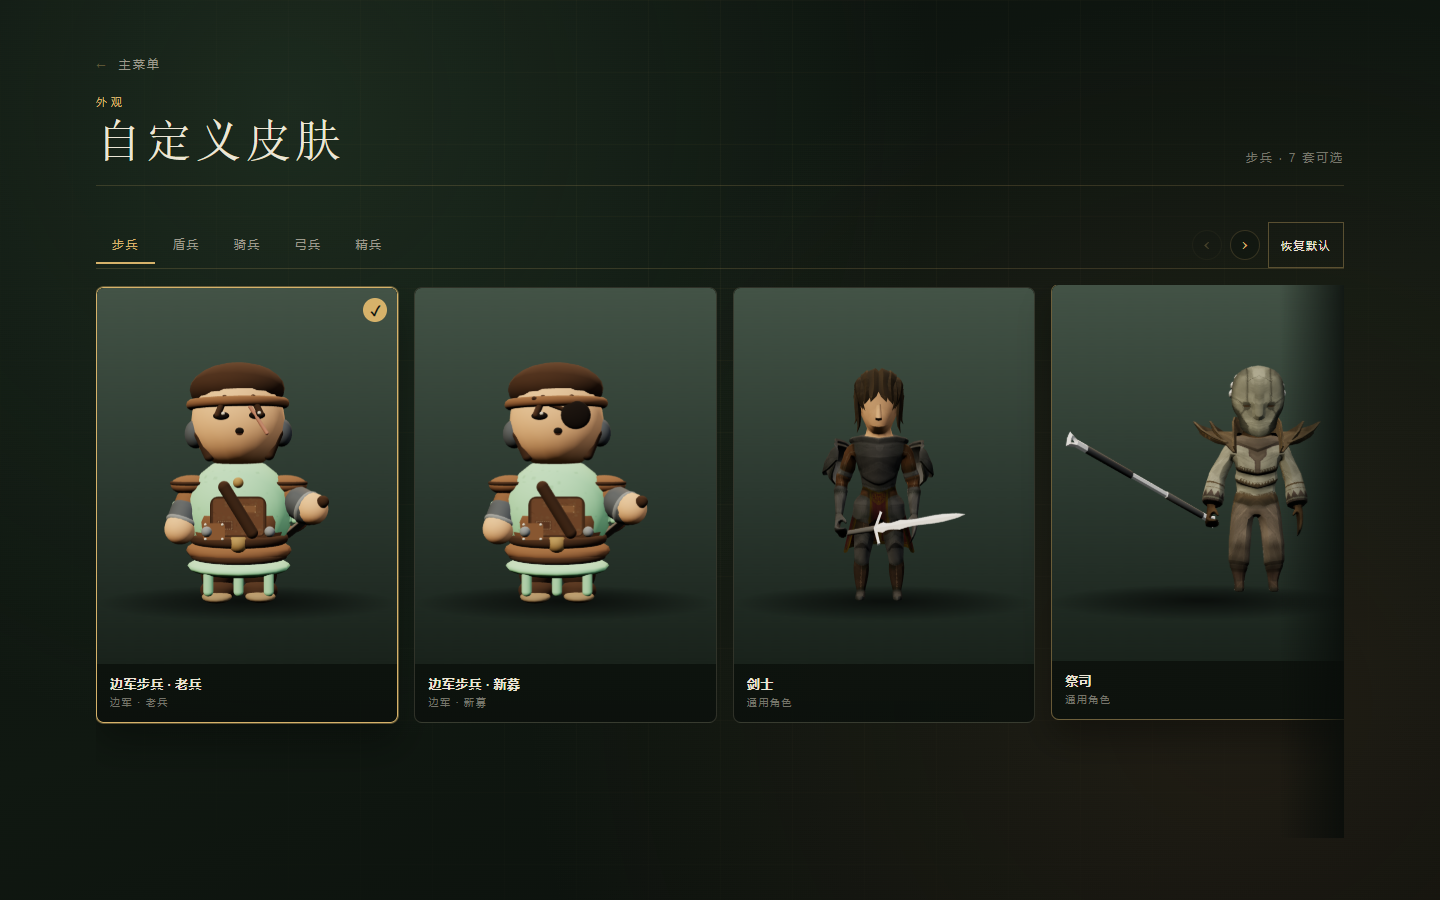
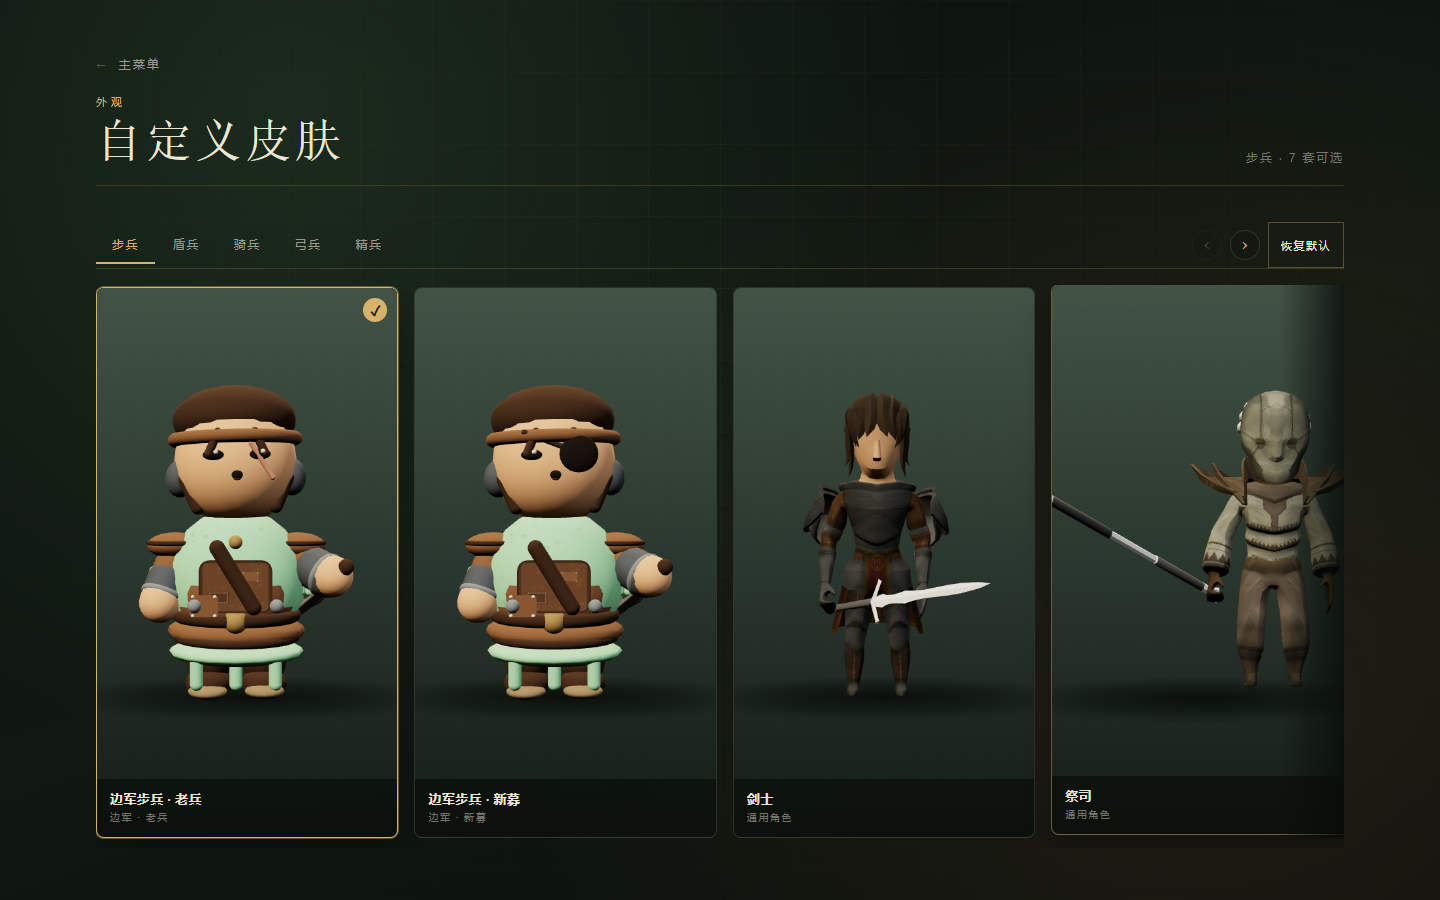
修复皮肤卡片底部信息被裁切

diff --git a/apps/client/src/style.css b/apps/client/src/style.css
@@ -1591,7 +1591,7 @@ body.preview-mode #preview-canvas {
 .skin-grid {
   display: flex;
   flex-wrap: nowrap;
-  align-items: flex-start;
+  align-items: stretch;
   gap: 16px;
   height: 100%;
   overflow-x: auto;
@@ -1642,7 +1642,8 @@ body.preview-mode #preview-canvas {
 .skin-card-media {
   position: relative;
   display: block;
-  aspect-ratio: 4 / 5;
+  flex: 1 1 auto;
+  min-height: 0;
   overflow: hidden;
   background: #10170f;
 }
@@ -1684,6 +1685,7 @@ body.preview-mode #preview-canvas {
 
 .skin-card-copy {
   display: flex;
+  flex: 0 0 auto;
   flex-direction: column;
   gap: 3px;
   padding: 11px 13px 13px;
